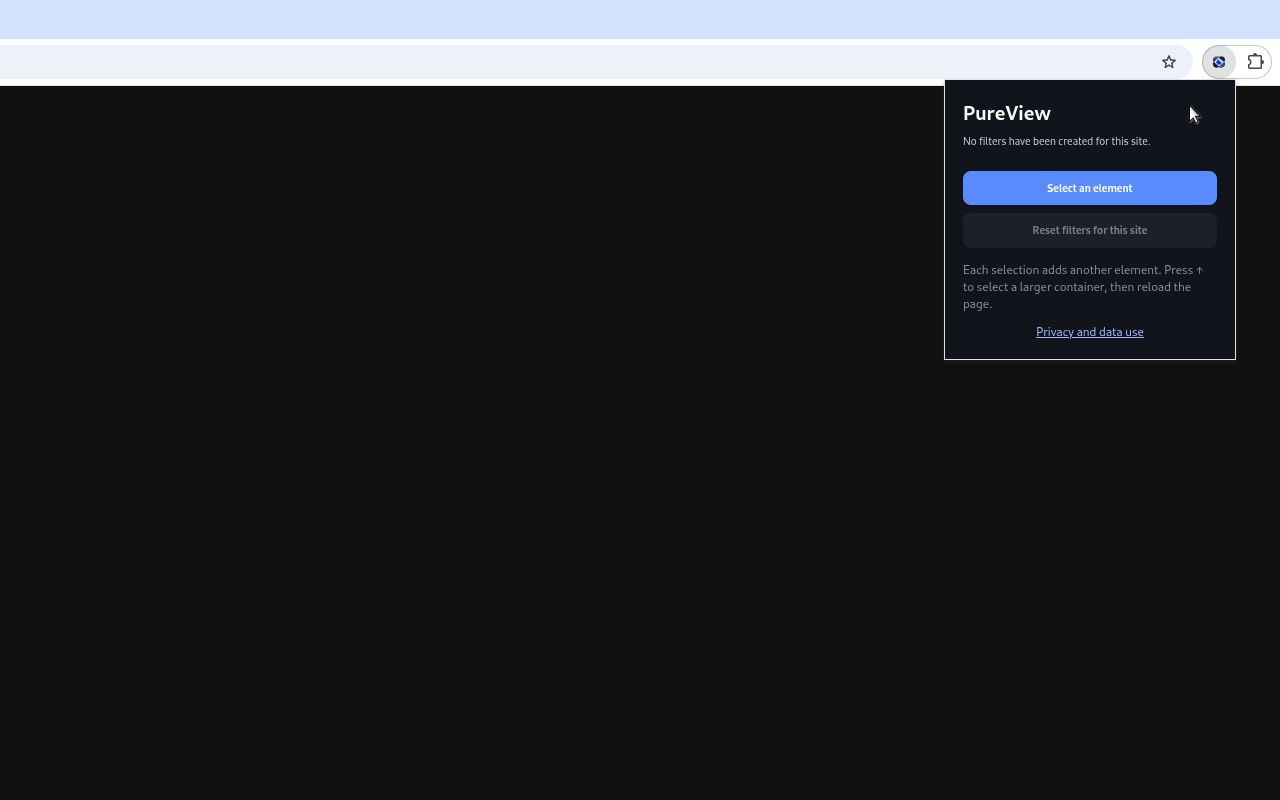
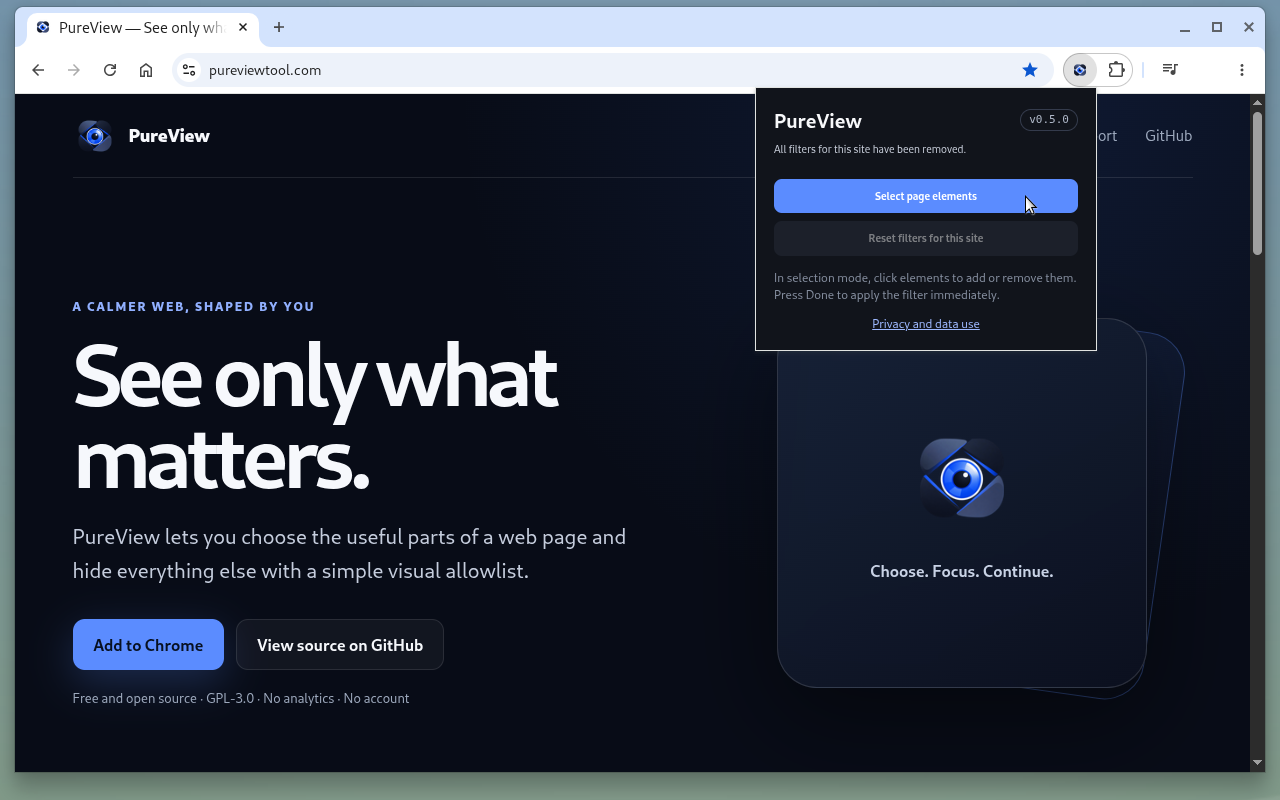
Update Chrome Web Store screenshots for 0.5.0

diff --git a/store-assets/README.md b/store-assets/README.md
@@ -4,27 +4,33 @@
 
 - `promo-small-440x280.png`: required small promotional tile.
 - `../extension/icons/icon128.png`: required 128x128 extension/store icon.
-- `screenshot-01-popup-1280x800.png`: real 1280x800 Chrome screenshot from
-  version 0.4.0. Replace it after manual testing with a capture of the 0.5.0
-  popup, or supplement it with a current picker screenshot before Store upload.
+- `screenshot-01-popup-1280x800.png`: initial/reset popup with the version badge.
+- `screenshot-02-popup-1280x800.png`: continuous picker with three selected
+  elements, live count, and Done/Cancel controls.
+- `screenshot-03-popup-1280x800.png`: filtered result immediately after Done.
+- `screenshot-04-popup-1280x800.png`: active popup with three saved elements,
+  individual Remove controls, Pause filter, and the version badge.
+
+All screenshots are real Chrome captures from PureView 0.5.0 at 1280x800. They
+were reviewed to exclude account avatars and other personal information.
 
 The branding masters are stored in `../assets/branding/`. Run
 `python3 scripts/prepare_store_assets.py` after intentional changes to those
 masters.
 
-## Optional additional screenshots
+## Recommended Store order
 
-Capture updated screenshots at 1280x800 with square corners and no artificial
-browser or interface mockups.
+Order the screenshots in the Developer Dashboard as follows:
 
-Recommended set:
+1. `screenshot-04-popup-1280x800.png`: presents the complete popup feature set.
+2. `screenshot-02-popup-1280x800.png`: demonstrates continuous selection.
+3. `screenshot-03-popup-1280x800.png`: shows the immediate filtered result.
+4. `screenshot-01-popup-1280x800.png`: shows the initial/reset state.
 
-1. `screenshot-01-popup-1280x800.png`: the updated popup showing its element
-   count, saved-element list, and Pause filter control.
-2. `screenshot-02-picker-1280x800.png`: the continuous picker showing selected
-   markers, the live count, and Done/Cancel controls.
-3. `screenshot-03-filtered-1280x800.png`: the same page immediately after Done,
-   showing two allowed elements and unrelated content hidden.
+## Capture requirements
+
+Future replacements must remain real 1280x800 or 640x400 Chrome captures with
+square corners and no artificial browser or interface mockups.
 
 Before capture:
 
@@ -34,5 +40,5 @@ Before capture:
 - do not imply that PureView blocks network requests;
 - verify that screenshots remain understandable when downscaled to 640x400.
 
-The optional 1400x560 marquee promotional tile is intentionally deferred for
-the initial unlisted release.
+The optional 1400x560 marquee promotional tile remains deferred for the unlisted
+release.

diff --git a/docs/CHROME_WEB_STORE_UPDATE_0.5.0.md b/docs/CHROME_WEB_STORE_UPDATE_0.5.0.md
@@ -50,20 +50,19 @@ The Privacy Practices categories remain:
 The public privacy policy must show an effective date of August 27, 2026 and
 must disclose that pause/resume state is stored locally.
 
-## Screenshot required before submission
+## Screenshots
 
-Replace or supplement the 0.4.0 screenshot with at least one real Chrome
-screenshot showing the 0.5.0 interface. Use 1280x800 PNG/JPEG or 640x400 with
-square corners and no padding. A recommended screenshot shows:
+Four real 1280x800 Chrome screenshots are ready under `store-assets/`. They show:
 
-- the PureView popup opened on a non-sensitive page;
-- two saved elements and the selected-element count;
-- the Pause filter control;
-- the `v0.5.0` version badge.
+- the initial/reset popup and version badge;
+- continuous selection with selected outlines, live count, and Done/Cancel;
+- the immediate filtered result;
+- the popup with three saved elements, individual Remove controls, Pause filter,
+  and the `v0.5.0` badge.
 
-An optional second screenshot can show the continuous picker with selected
-outlines, its live count, and Done/Cancel controls. Do not use generated UI or a
-mockup; Chrome Web Store screenshots must show the actual extension experience.
+They were reviewed to exclude account avatars and other personal information.
+Upload them in the order documented in `store-assets/README.md`. The images are
+real Chrome captures rather than generated UI or mockups.
 
 ## Dashboard submission
 

diff --git a/docs/CHROME_WEB_STORE_LISTING.md b/docs/CHROME_WEB_STORE_LISTING.md
@@ -139,11 +139,9 @@ Verify that every URL is publicly accessible before submission.
 - Extension/store icon: `extension/icons/icon128.png` (128x128 PNG with
   transparent padding).
 - Required small promo tile: `store-assets/promo-small-440x280.png`.
-- Required screenshot: `store-assets/screenshot-01-popup-1280x800.png` is a real
-  1280x800 Chrome screenshot. Additional optional screenshots are documented in
-  `store-assets/README.md`.
-- Before submitting version 0.5.0, replace or supplement the existing screenshot
-  with a real capture of the updated popup and continuous picker toolbar.
+- Four real 1280x800 Chrome screenshots document the updated popup, continuous
+  picker, immediate filtered result, and saved-rule management. Upload them in
+  the order documented in `store-assets/README.md`.
 - Optional marquee tile: not prepared for the initial unlisted release.
 
 ## Distribution

diff --git a/docs/PUBLISHING.md b/docs/PUBLISHING.md
@@ -89,10 +89,9 @@ Follow `store-assets/README.md`. Use 1280x800 PNG or JPEG images with square
 corners and no padding. Screenshots must show the actual extension experience,
 not a generated or conceptual interface.
 
-The existing `store-assets/screenshot-01-popup-1280x800.png` documents version
-0.4.0. After the 0.5.0 manual test, replace it with a real 1280x800 capture of
-the updated popup or add a new real screenshot of the continuous picker. Review
-every image in the Developer Dashboard preview before submission.
+Four reviewed 1280x800 screenshots document version 0.5.0. Upload them in the
+order defined by `store-assets/README.md` and review every image in the Developer
+Dashboard preview before submission.
 
 ## 7. Update the Store item
 
